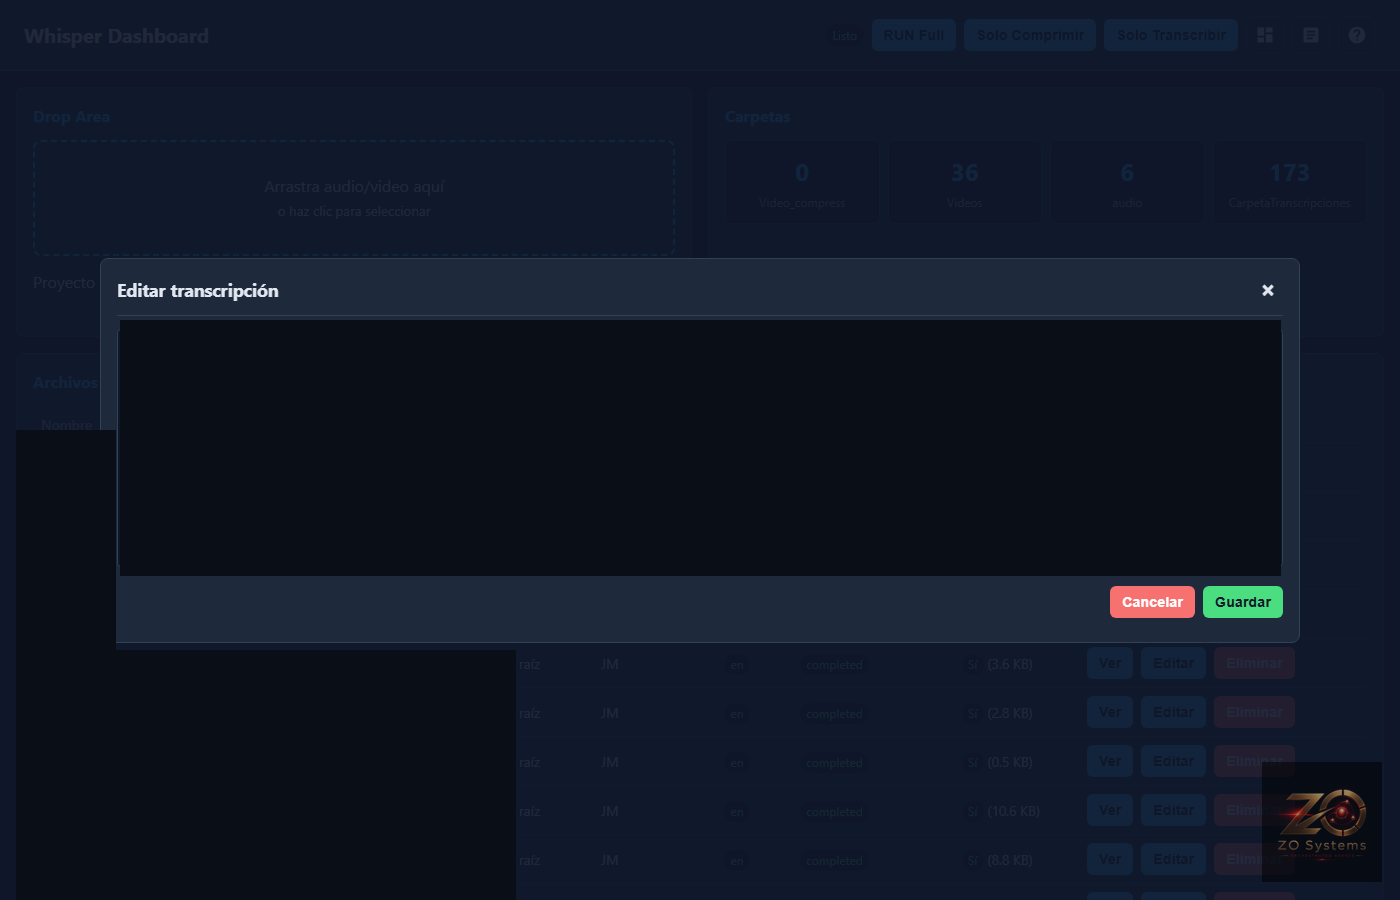
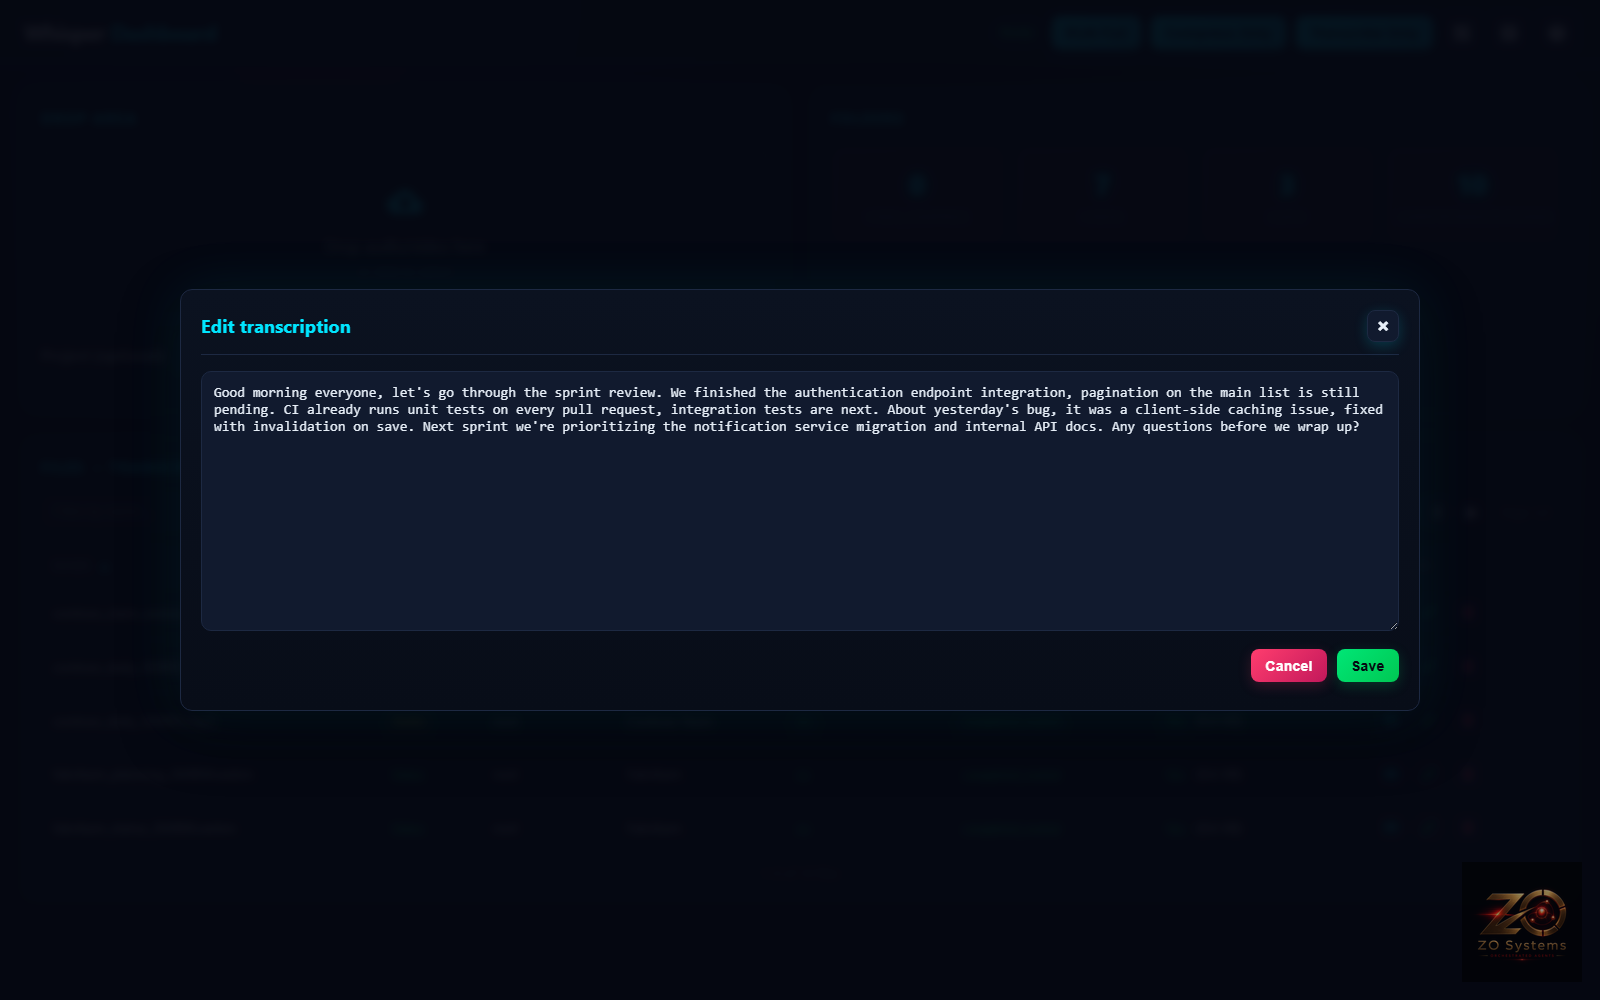
Fix leaked client names in dashboard.html and smoke test, retake screenshots with mock data
The Help modal in dashboard.html had real client project prefixes/names
hardcoded (valeris_, databiz_), and tests/e2e/smoke_dashboard.py filtered
by the real "Databiz" project name — both already public. Replaced with
the anonymized example names (Northwind/Contoso/Fabrikam) used elsewhere.

Retook all dashboard screenshots against fully synthetic data
(docs/assets/generate_mock_data.py) instead of redacted real client
screenshots, so no real meeting content or participant data is exposed
even indirectly.

diff --git a/src/transcript_pipeline/dashboard/templates/dashboard.html b/src/transcript_pipeline/dashboard/templates/dashboard.html
@@ -366,8 +366,19 @@
         .pagination.top {
             margin-top: 0;
             justify-content: flex-end;
-            flex: 1;
-            min-width: 280px;
+            flex: 1 1 auto;
+            min-width: 300px;
+            min-height: 2rem;
+        }
+        .pagination.top button {
+            min-width: 1.8rem;
+            height: 1.8rem;
+            padding: 0 0.4rem;
+        }
+        .pagination.top button {
+            min-width: 1.8rem;
+            height: 1.8rem;
+            padding: 0 0.4rem;
         }
         .pagination button {
             min-width: 2rem;
@@ -621,7 +632,6 @@
                 <div id="filesPaginationTop" class="pagination top"></div>
             </div>
             <div id="filesList"></div>
-            <div id="filesPagination" class="pagination"></div>
         </div>
     </div>
 
@@ -725,11 +735,12 @@
                 </ul>
 
                 <h3>Project prefixes</h3>
+                <p>Defined per project in <code>projects.json</code> (see <code>projects.json.example</code>). Example:</p>
                 <ul>
                     <li><code>zo_</code> → Zo Interviews</li>
-                    <li><code>valeris_</code> → Valeris</li>
-                    <li><code>jm_</code> → JM</li>
-                    <li><code>databiz_</code> → Databiz</li>
+                    <li><code>northwind_</code> → Northwind</li>
+                    <li><code>contoso_</code> → Contoso Team</li>
+                    <li><code>fabrikam_</code> → Fabrikam</li>
                     <li><code>meeting_</code>, <code>junta_</code> → Dev Meetings</li>
                     <li><code>tutorial</code> in the name → Tutorials</li>
                 </ul>
@@ -903,9 +914,9 @@
             const bottom = document.getElementById('filesPagination');
             const top = document.getElementById('filesPaginationTop');
             const html = buildPaginationHtml(page, totalPages, total);
-            bottom.innerHTML = html;
-            top.innerHTML = html;
-            if (totalPages <= 1) { bottom.innerHTML = ''; top.innerHTML = ''; }
+            if (top) top.innerHTML = html;
+            if (bottom) bottom.innerHTML = html;
+            if (totalPages <= 1) { if (top) top.innerHTML = ''; if (bottom) bottom.innerHTML = ''; }
         }
 
         function buildPaginationHtml(page, totalPages, total) {

diff --git a/docs/assets/generate_mock_data.py b/docs/assets/generate_mock_data.py
@@ -1,0 +1,132 @@
+"""Script de un solo uso: genera archivos mock (video/audio + transcripciones
+falsas) para tomar screenshots del dashboard sin usar datos reales de clientes.
+Reversible: ver cleanup_mock_data.py.
+"""
+from __future__ import annotations
+
+import json
+import subprocess
+from datetime import datetime
+from pathlib import Path
+
+ROOT = Path(__file__).resolve().parents[2]
+AUDIO = ROOT / "audio"
+VIDEOS = ROOT / "Videos"
+TRANSCRIPTIONS = ROOT / "CarpetaTranscripciones"
+PROCESSED_DB = ROOT / "processed_files.json"
+
+FAKE_TRANSCRIPT_ES = (
+    "Buenos días equipo, empecemos con el repaso del sprint. Terminamos la "
+    "integración del endpoint de autenticación y quedó pendiente el ajuste de "
+    "paginación en el listado principal. El pipeline de CI ya corre las pruebas "
+    "unitarias en cada pull request, falta agregar las de integración. "
+    "Sobre el bug reportado ayer, ya identificamos que era un problema de caché "
+    "en el cliente, se corrige con invalidación al guardar. Para el próximo "
+    "sprint priorizamos la migración del servicio de notificaciones y "
+    "la documentación de la API interna. ¿Alguna duda antes de cerrar?"
+)
+
+FAKE_TRANSCRIPT_EN = (
+    "Good morning everyone, let's go through the sprint review. We finished the "
+    "authentication endpoint integration, pagination on the main list is still "
+    "pending. CI already runs unit tests on every pull request, integration "
+    "tests are next. About yesterday's bug, it was a client-side caching issue, "
+    "fixed with invalidation on save. Next sprint we're prioritizing the "
+    "notification service migration and internal API docs. Any questions "
+    "before we wrap up?"
+)
+
+# (relative_path, language, transcript, duration_sec)
+MOCK_FILES: list[tuple[str, str, str, float]] = [
+    ("Videos/py_northwind/northwind_standup_260801.mp4", "en", FAKE_TRANSCRIPT_EN, 612.0),
+    ("Videos/py_northwind/northwind_planning_260805.mp4", "en", FAKE_TRANSCRIPT_EN, 754.0),
+    ("Videos/py_zo/zo_interview_acme.mp4", "es", FAKE_TRANSCRIPT_ES, 1834.0),
+    ("audio/py_contoso/contoso_daily_260802.mp3", "en", FAKE_TRANSCRIPT_EN, 320.0),
+    ("audio/py_contoso/contoso_daily_260803.mp3", "en", FAKE_TRANSCRIPT_EN, 298.0),
+    ("audio/py_contoso/contoso_claim_review.mp3", "en", FAKE_TRANSCRIPT_EN, 415.0),
+    ("Videos/py_meetings/meeting_arquitectura_260803.webm", "es", FAKE_TRANSCRIPT_ES, 2635.0),
+    ("Videos/py_fabrikam/fabrikam_planning_260804.webm", "es", FAKE_TRANSCRIPT_ES, 2151.0),
+    ("Videos/py_fabrikam/fabrikam_status_260806.webm", "es", FAKE_TRANSCRIPT_ES, 1897.0),
+    ("Videos/mi_tutorial_deploy_pipeline.mp4", "es", FAKE_TRANSCRIPT_ES, 980.0),
+]
+
+
+def make_media(path: Path, duration: float) -> None:
+    path.parent.mkdir(parents=True, exist_ok=True)
+    clip_len = 6  # segundos reales del clip de prueba (loop no hace falta, solo necesitamos que cargue)
+    if path.suffix.lower() == ".mp3":
+        cmd = [
+            "ffmpeg", "-y", "-f", "lavfi", "-i", f"anullsrc=r=44100:cl=mono",
+            "-t", str(clip_len), str(path),
+        ]
+    else:
+        vcodec = "libvpx-vp9" if path.suffix.lower() == ".webm" else "libx264"
+        cmd = [
+            "ffmpeg", "-y", "-f", "lavfi", "-i", f"testsrc=size=640x360:rate=15",
+            "-f", "lavfi", "-i", "anullsrc=r=44100:cl=mono",
+            "-t", str(clip_len), "-c:v", vcodec, "-pix_fmt", "yuv420p", str(path),
+        ]
+    subprocess.run(cmd, check=True, capture_output=True)
+
+
+def make_transcription(rel_path: str, language: str, text: str, duration: float) -> None:
+    media_path = ROOT / rel_path
+    base = Path(rel_path)
+    is_video = base.parts[0] == "Videos"
+    src_base = VIDEOS if is_video else AUDIO
+    rel_to_base = media_path.relative_to(src_base)
+    out_folder = TRANSCRIPTIONS / rel_to_base.parent
+    out_folder.mkdir(parents=True, exist_ok=True)
+
+    stem = media_path.stem
+    (out_folder / f"{stem}.txt").write_text(text, encoding="utf-8")
+
+    metadata = {
+        "audio_file": str(media_path),
+        "language": language,
+        "duration": duration,
+        "processing_time": round(duration * 0.18, 1),
+        "processed_at": datetime.now().isoformat(),
+        "segments_count": 1,
+    }
+    (out_folder / f"{stem}_metadata.json").write_text(
+        json.dumps(metadata, indent=2, ensure_ascii=False), encoding="utf-8"
+    )
+
+    segments_data = {
+        **metadata,
+        "text": text,
+        "segments": [{"start": 0.0, "end": duration, "text": text}],
+    }
+    (out_folder / f"{stem}_segments.json").write_text(
+        json.dumps(segments_data, indent=2, ensure_ascii=False), encoding="utf-8"
+    )
+
+
+def mark_processed(rel_path: str) -> None:
+    db = json.loads(PROCESSED_DB.read_text(encoding="utf-8")) if PROCESSED_DB.exists() else {}
+    media_path = ROOT / rel_path
+    key = str(media_path.absolute())
+    db[key] = {
+        "path": key,
+        "name": media_path.name,
+        "size": media_path.stat().st_size if media_path.exists() else 0,
+        "date": datetime.now().isoformat(),
+        "status": "completed_routed",
+        "hash": "mockdata00000000",
+    }
+    PROCESSED_DB.write_text(json.dumps(db, indent=2, ensure_ascii=False), encoding="utf-8")
+
+
+def main() -> None:
+    for rel_path, language, text, duration in MOCK_FILES:
+        path = ROOT / rel_path
+        print(f"[MOCK] {rel_path}")
+        make_media(path, duration)
+        make_transcription(rel_path, language, text, duration)
+        mark_processed(rel_path)
+    print("[OK] Datos mock generados.")
+
+
+if __name__ == "__main__":
+    main()

diff --git a/docs/assets/cleanup_mock_data.py b/docs/assets/cleanup_mock_data.py
@@ -1,0 +1,46 @@
+"""Revierte exactamente lo que genera generate_mock_data.py."""
+from __future__ import annotations
+
+import json
+from pathlib import Path
+
+from generate_mock_data import MOCK_FILES, ROOT, PROCESSED_DB, VIDEOS, AUDIO, TRANSCRIPTIONS
+
+
+def main() -> None:
+    db = json.loads(PROCESSED_DB.read_text(encoding="utf-8")) if PROCESSED_DB.exists() else {}
+
+    for rel_path, *_ in MOCK_FILES:
+        media_path = ROOT / rel_path
+        base = Path(rel_path)
+        is_video = base.parts[0] == "Videos"
+        src_base = VIDEOS if is_video else AUDIO
+        rel_to_base = media_path.relative_to(src_base)
+        out_folder = TRANSCRIPTIONS / rel_to_base.parent
+        stem = media_path.stem
+
+        for f in [media_path, out_folder / f"{stem}.txt",
+                  out_folder / f"{stem}_metadata.json", out_folder / f"{stem}_segments.json"]:
+            if f.exists():
+                f.unlink()
+                print(f"[DEL] {f}")
+
+        key = str(media_path.absolute())
+        db.pop(key, None)
+
+        # limpiar carpetas vacias que haya creado el mock
+        try:
+            media_path.parent.rmdir()
+        except OSError:
+            pass
+        try:
+            out_folder.rmdir()
+        except OSError:
+            pass
+
+    PROCESSED_DB.write_text(json.dumps(db, indent=2, ensure_ascii=False), encoding="utf-8")
+    print("[OK] Datos mock eliminados, processed_files.json restaurado.")
+
+
+if __name__ == "__main__":
+    main()

diff --git a/tests/e2e/smoke_dashboard.py b/tests/e2e/smoke_dashboard.py
@@ -73,7 +73,7 @@ def main() -> int:
         all_ok &= check("pagination_visible", page.locator("#filesPagination button").count() > 0)
 
         # Filter by project
-        page.locator("#projectFilter").select_option("Databiz")
+        page.locator("#projectFilter").select_option("Fabrikam")
         page.wait_for_timeout(400)
         filtered_rows = page.locator("#filesList table tbody tr").count()
         all_ok &= check("filtro_proyecto", filtered_rows > 0 and filtered_rows <= 5, f"{filtered_rows} filas")
@@ -118,7 +118,7 @@ def main() -> int:
         screenshot(page, "preview")
 
         # Search + highlight
-        page.locator("#txSearch").fill("Databiz")
+        page.locator("#txSearch").fill("Fabrikam")
         page.wait_for_timeout(600)
         marks = page.locator("#transcriptList .segment mark").count()
         count_text = page.locator("#searchCount").text_content() or ""

diff --git a/README.md b/README.md
@@ -175,15 +175,19 @@ python dashboard.py
 # → http://localhost:5000
 ```
 
-| Home | Editor de transcripción | Insights |
+| Home | Preview + Insights | Búsqueda en transcripción |
 |---|---|---|
-| ![home](docs/screenshots/dashboard_home.png) | ![edit](docs/screenshots/dashboard_edit.png) | ![insights](docs/screenshots/dashboard_insights.png) |
+| ![home](docs/screenshots/dashboard_home.png) | ![preview](docs/screenshots/dashboard_preview.png) | ![editor](docs/screenshots/dashboard_editor.png) |
 
-| Proyectos (CRUD) | Logs | Guía de uso |
+| Frames extraídos | Editar transcripción | Proyectos (CRUD) |
 |---|---|---|
-| ![projects](docs/screenshots/dashboard_projects.png) | ![logs](docs/screenshots/dashboard_logs.png) | ![help](docs/screenshots/dashboard_help.png) |
+| ![frames](docs/screenshots/dashboard_frames.png) | ![edit](docs/screenshots/dashboard_edit.png) | ![projects](docs/screenshots/dashboard_projects.png) |
 
-*Nombres de archivos y participantes redactados — son datos reales de proyectos de clientes.*
+| Logs | Guía de uso |
+|---|---|
+| ![logs](docs/screenshots/dashboard_logs.png) | ![help](docs/screenshots/dashboard_help.png) |
+
+*Capturas con datos 100% ficticios (`docs/assets/generate_mock_data.py`) — ningún archivo, nombre o transcripción de cliente real aparece aquí.*
 
 ## Testing
 
